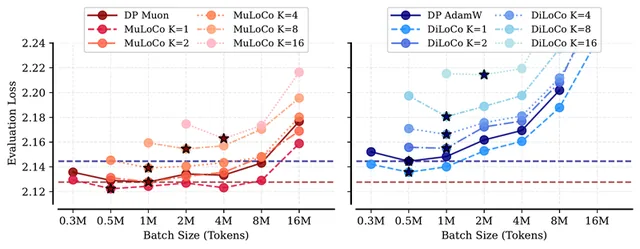
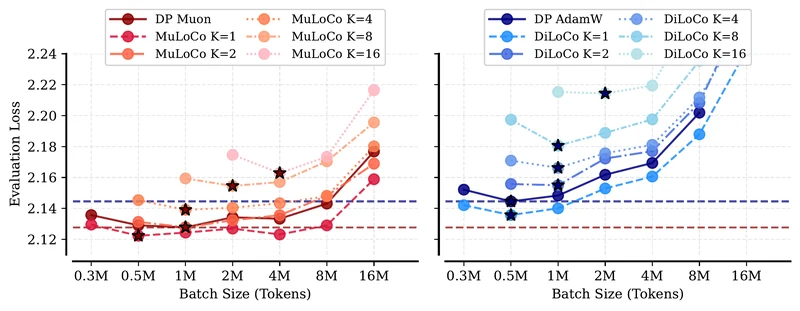
Sharper images and text; drop the oral-presenter mark
- Regenerate paper thumbnails at up to 1400px (was 640px) so they stay
  sharp on high-DPI screens and full-width on phones
- Re-render the replica-scaling figure from the PDF at 600 dpi
- Profile photo file 640px -> 1024px
- Antialiased text rendering
- Remove '† Oral presenter' from the legend and the CVPR author list

diff --git a/_pages/index.md b/_pages/index.md
@@ -41,6 +41,13 @@ image: /images/avatar.jpg
 }
 
 /* Calibri, falling back to Carlito (a metric-compatible open clone) where Calibri isn't installed */
+/* Crisper text rendering */
+body {
+  -webkit-font-smoothing: antialiased;
+  -moz-osx-font-smoothing: grayscale;
+  text-rendering: optimizeLegibility;
+}
+
 body,
 .site-name,
 .site-description,
@@ -520,7 +527,7 @@ I'm looking for model training positions in San Francisco.
 </div>
 
 <h2 class="section-title">Selected Publications</h2>
-<p class="section-sub">See my <a href="https://scholar.google.com/citations?hl=en&amp;user=RbO_ULYAAAAJ">Google Scholar</a> page for a complete list of publications, or download my <a href="assets/Benjamin_Therien_CV.pdf">CV</a>. <span class="pub-legend">* Equal contribution. † Oral presenter.</span></p>
+<p class="section-sub">See my <a href="https://scholar.google.com/citations?hl=en&amp;user=RbO_ULYAAAAJ">Google Scholar</a> page for a complete list of publications, or download my <a href="assets/Benjamin_Therien_CV.pdf">CV</a>. <span class="pub-legend">* Equal contribution.</span></p>
 
 <div class="pub-group" markdown="1">
 <h3 class="group-title" id="distributed">Distributed &amp; communication-efficient pre-training</h3>
@@ -741,7 +748,7 @@ I'm looking for model training positions in San Francisco.
 <div class="pub-thumb"><img src="{{ site.baseurl }}/images/thumbs/psn_im.webp" alt="Figure from Parametric Scattering Networks" loading="lazy" decoding="async"></div>
 <div class="paper-body" markdown="1">
   <div class="pub-title" markdown="span">Parametric Scattering Networks</div>
-  <div class="pub-authors" markdown="span">Shanel Gauthier<sup title="Equal contribution">*</sup>, **Benjamin Thérien<sup title="Equal contribution">*</sup>†**, Laurent Alsène-Racicot, Muawiz Chaudhary, Irina Rish, Eugene Belilovsky, Michael Eickenberg, Guy Wolf</div>
+  <div class="pub-authors" markdown="span">Shanel Gauthier<sup title="Equal contribution">*</sup>, **Benjamin Thérien<sup title="Equal contribution">*</sup>**, Laurent Alsène-Racicot, Muawiz Chaudhary, Irina Rish, Eugene Belilovsky, Michael Eickenberg, Guy Wolf</div>
   <div class="pub-venue" markdown="span">IEEE/CVF Conference on Computer Vision and Pattern Recognition (**CVPR**), 2022 <span class="pub-badge">Oral · 4.2% of submissions</span></div>
   <div class="pub-tldr">Learning the scales, orientations and aspect ratios of Morlet wavelet filters gives significant gains over the standard scattering transform when labels are scarce.</div>
   <div class="pub-links">
